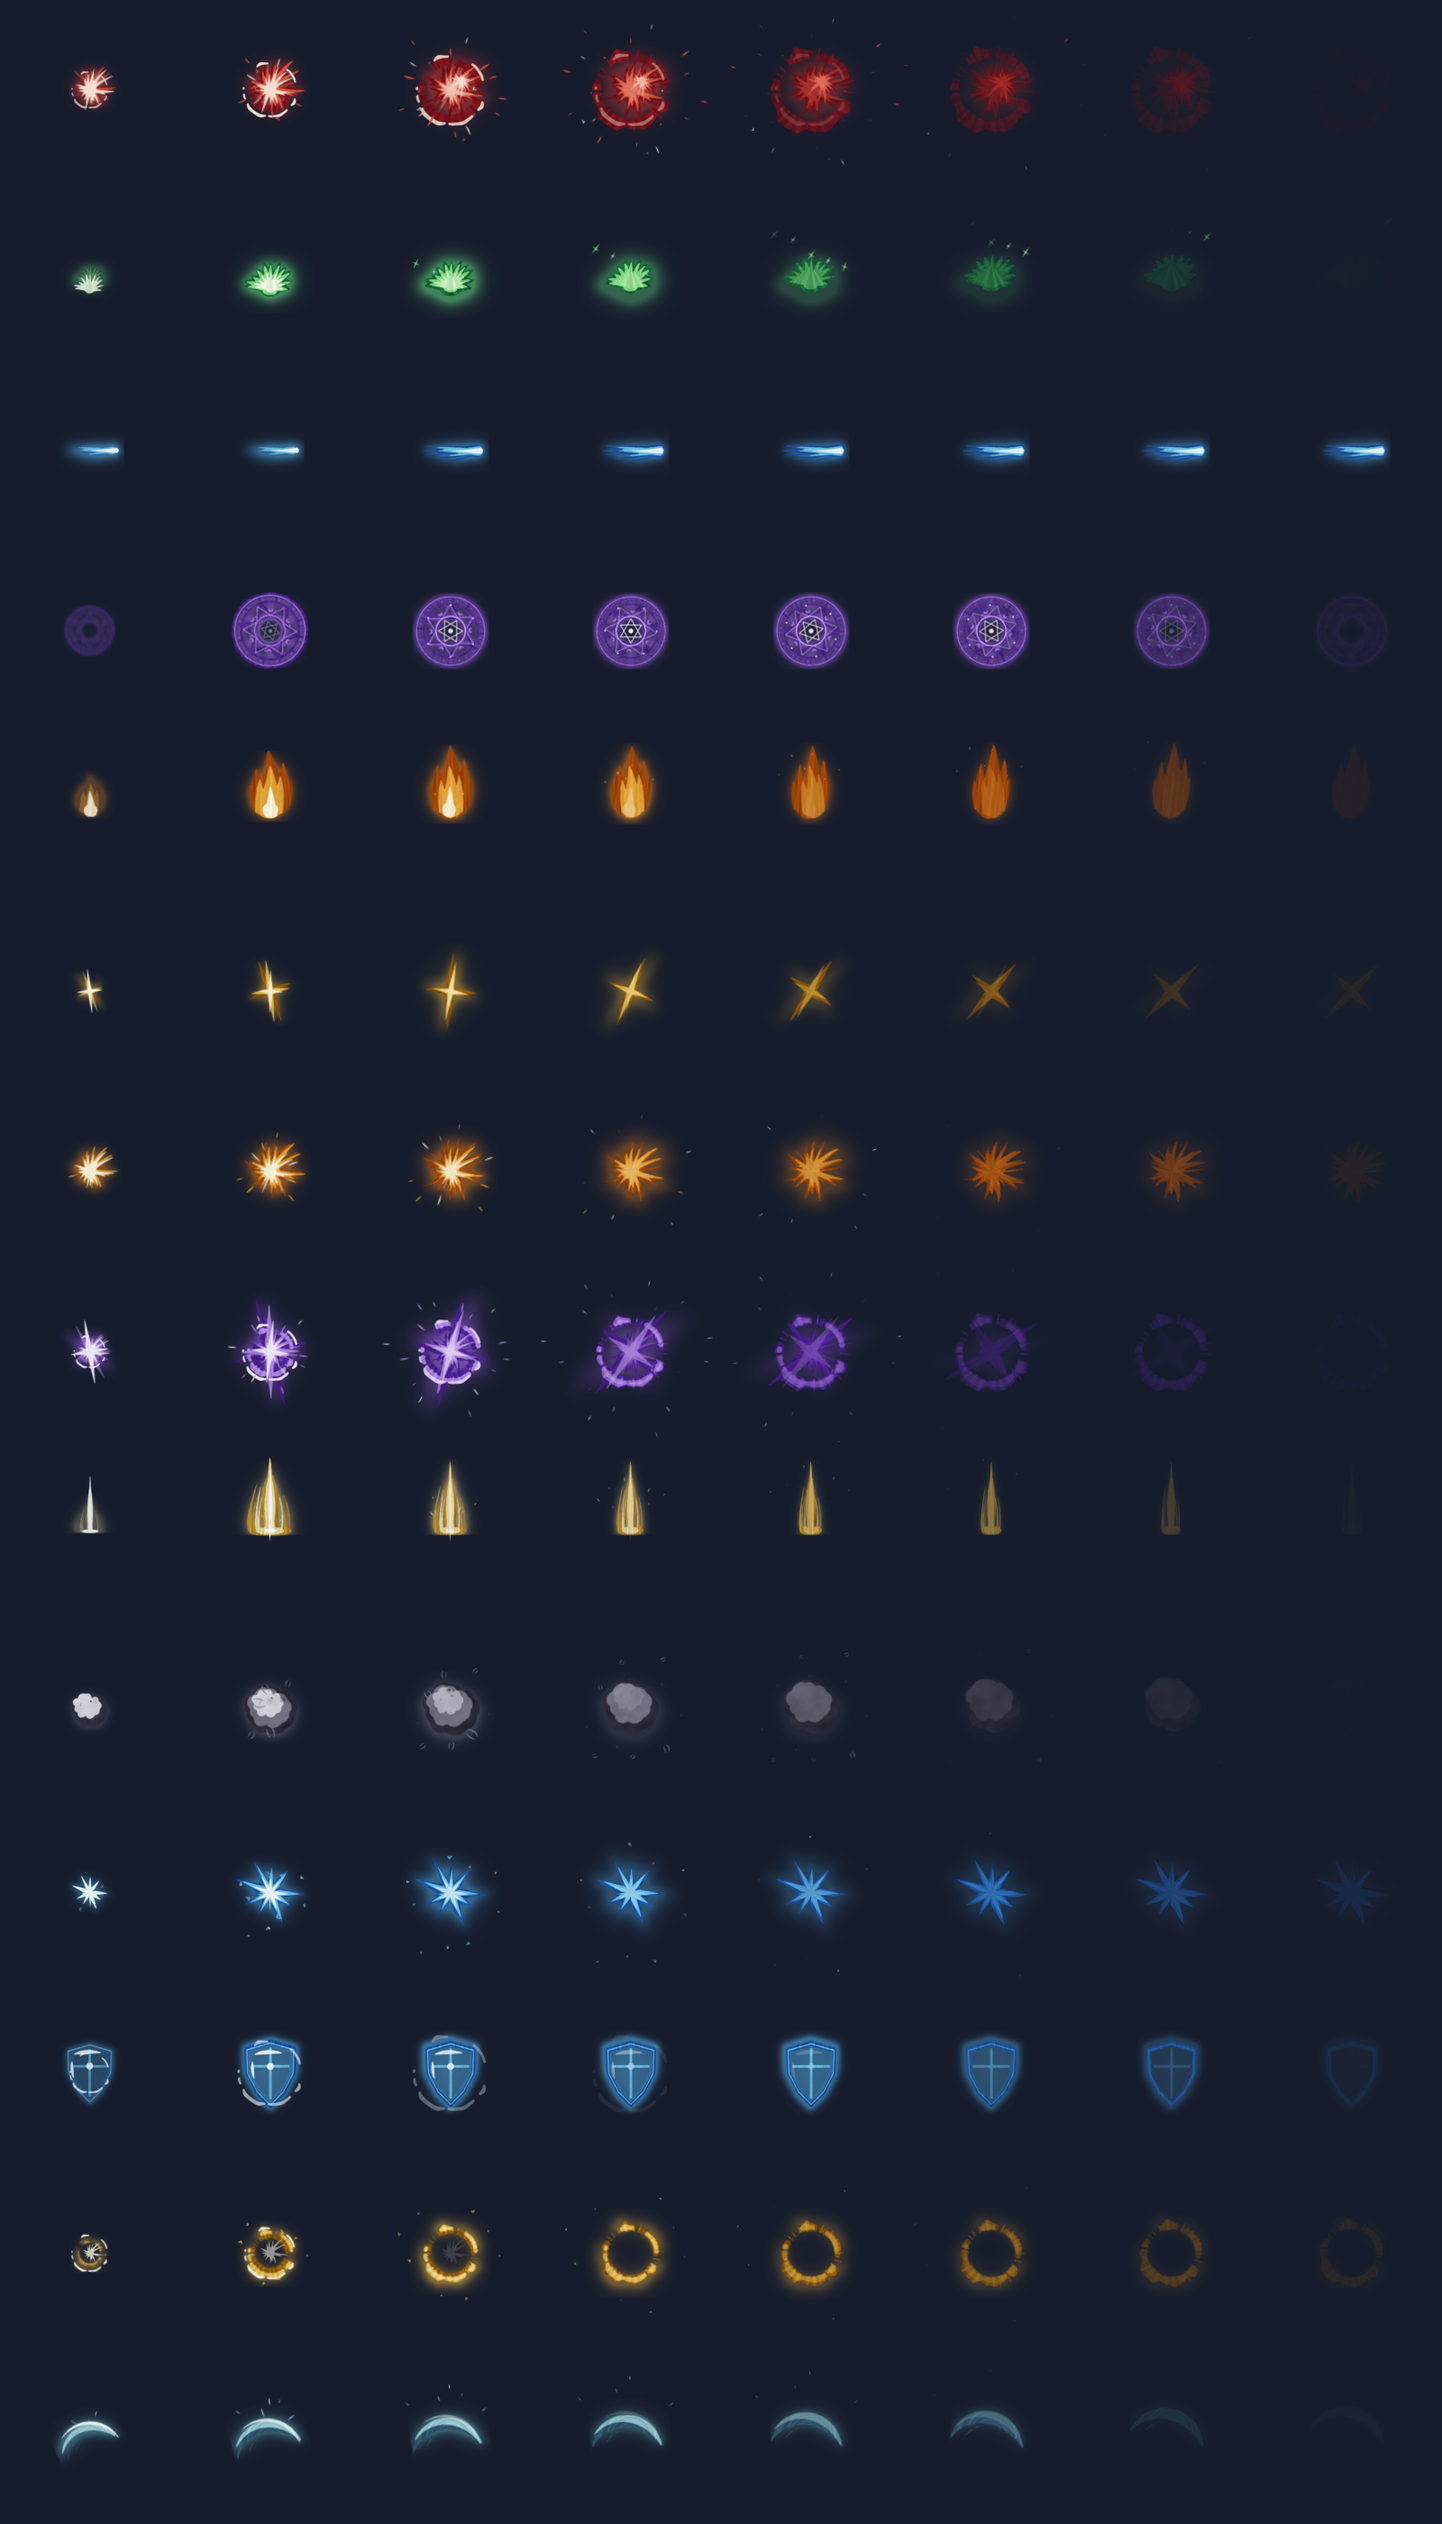
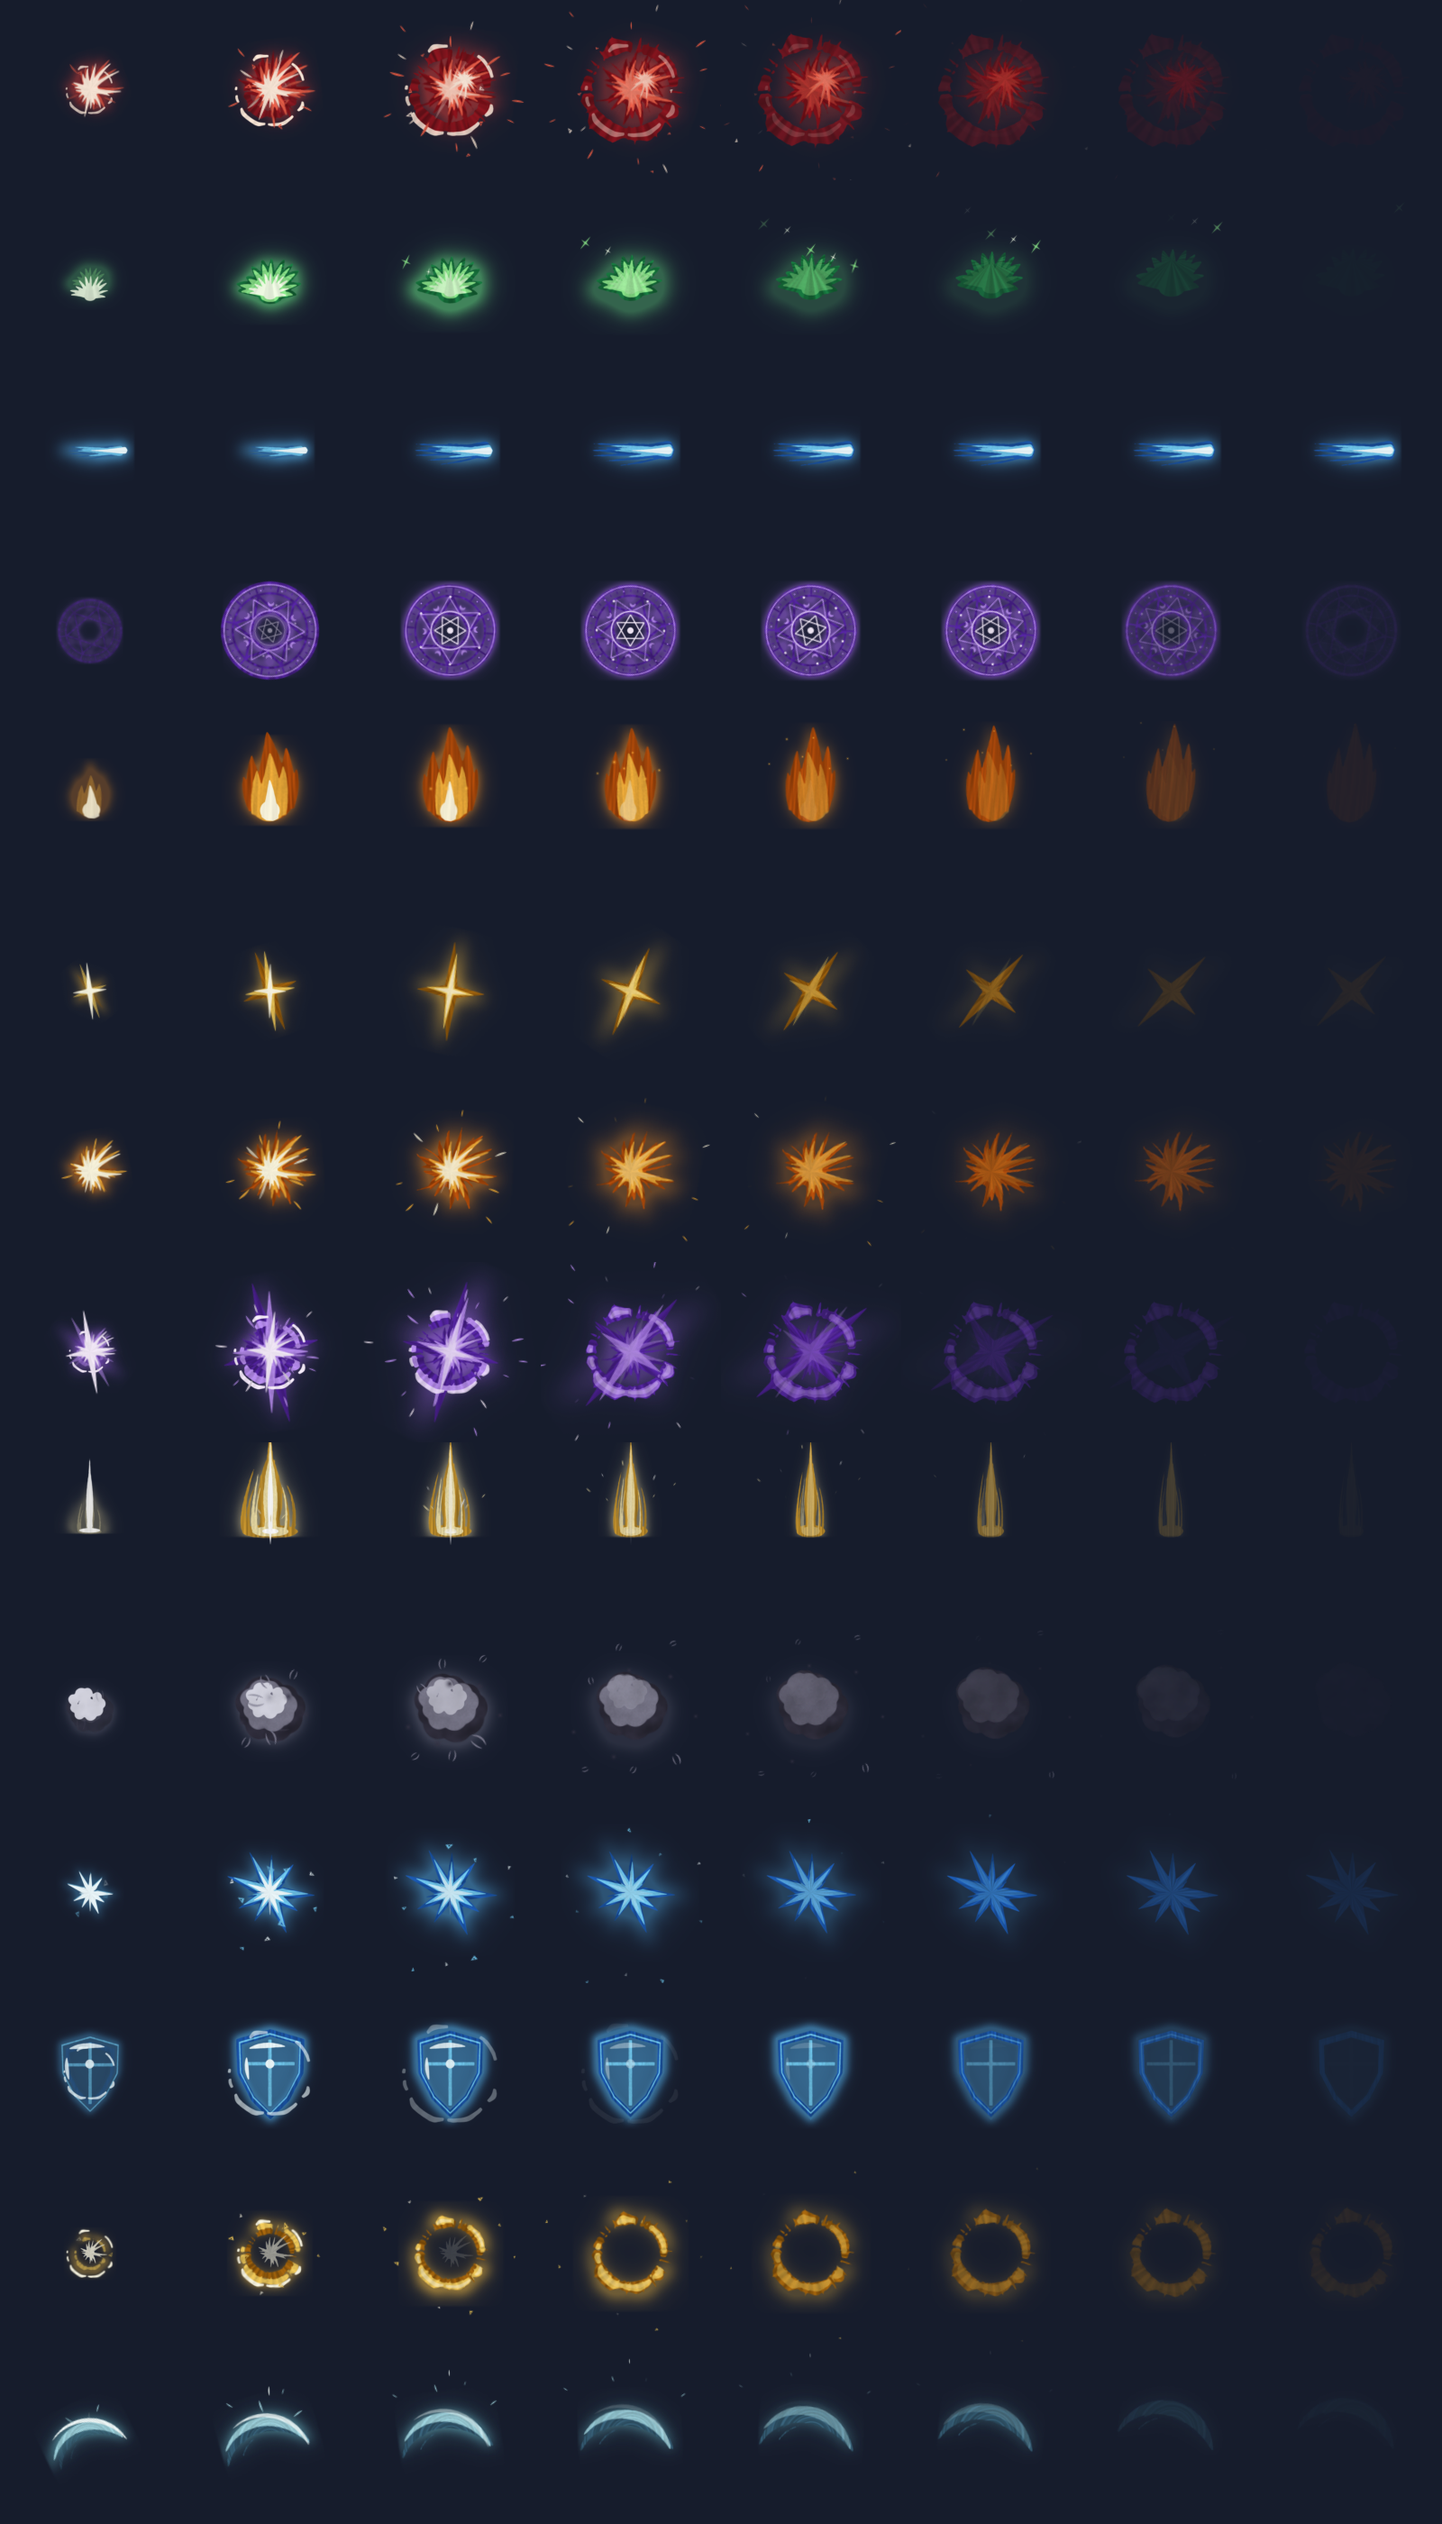
Layered effects: uploaded sheet ids, previews, README, CI step
Claude-Session: https://claude.ai/code/session_015X7gictzcTgipeEGLkgkzZ

diff --git a/vfx/README.md b/vfx/README.md
@@ -1,0 +1,58 @@
+# Layered effects (LayerFx)
+
+Every effect in the game is a picture drawn as **four layers** that sit on top of each other:
+
+| Layer | What it is | Colour in game |
+| --- | --- | --- |
+| glow | a soft bloom behind everything | the family colour, half see-through |
+| rim | the whole silhouette | dark and saturated |
+| middle | a smaller shape inside it | bright |
+| core | the hottest, smallest part | nearly white |
+
+The layers never move as one picture: the core snaps out first and dies first, the middle follows,
+the rim arrives last and lingers, the glow swells behind them, and loose bits of paint fly off on
+top. That offset is what makes a still drawing feel like a hit.
+
+![the sheets](preview.png)
+
+## Files
+- `draw_layers.py` draws the 13 sheets into `sheets/` (1024x1024, the four layers in the four
+  quarters: glow top-left, rim top-right, middle bottom-left, core bottom-right). They are white
+  with brush streaks, so the game tints them and one drawing works for every card family.
+  `python3 vfx/draw_layers.py` (needs `numpy` and `pillow`), or `python3 vfx/draw_layers.py slash`
+  for one sheet. It also writes `preview.png`.
+- `src/shared/LayerFx.luau` puts the layers together in Roblox: the recipes (which layers, when,
+  how big, how they turn and fade) and `LayerFx.play` / `LayerFx.screen`.
+- `src/shared/VfxAssets.luau` holds the uploaded image id of each sheet.
+- `render_preview.py` renders `effects_strip.png` and `effects.gif` from the real frames the game
+  code computes (see the top of that file). `studio_check.jpg` is the same effects in Roblox Studio.
+
+## The effects
+`hit`, `bigHit`, `slash`, `slam` (flat), `circle` (flat), `pillar`, `bolt`, `puff`, `bloom`,
+`shield`, `shards`, `flame`, `glint`, `nova`. Colours: `ember`, `gold`, `blood`, `frost`, `arcane`,
+`verdant`, `rust`, `steel`, `holy`, `smoke`, `rose` (each family and rarity has one).
+
+```lua
+local LayerFx = require(ReplicatedStorage.DeckWars.LayerFx)
+LayerFx.play("hit", position, { palette = "ember", size = 3 })
+LayerFx.play("slash", position, { palette = "steel", size = 3, aim = direction })
+LayerFx.play("bolt", from, { to = target, palette = "frost" })
+LayerFx.play("slam", groundPosition, { palette = "gold", size = 4 })            -- lies flat
+LayerFx.screen("nova", someFrame, UDim2.fromScale(0.5, 0.5), 300, { palette = "gold" })
+```
+
+Where the game plays them: summons (slam; a spell circle from Epic up; a pillar from Mythic up),
+attacks (slash, or a bolt from far away), damage (hit / bigHit in the attacker's colours), hero
+damage, heals and buffs (bloom), knock-outs (puff), spells (circle), Spark and Big Moves (nova,
+pillar), Frozen (shards), Bubble Wrap and blocks (shield), Boo (flame), the pack slash and the
+card reveals, and the hits, slams and explosions of Pack Brawl.
+
+## Changing or adding a picture
+1. Change `draw_layers.py` and run it.
+2. Upload the new sheet to Roblox: in Studio open **View > Asset Manager > Images**, press the
+   upload arrow and pick the file from `vfx/sheets/`. Right-click the uploaded image and choose
+   **Copy ID to clipboard**.
+3. Put the id in `src/shared/VfxAssets.luau` as `"rbxassetid://<the id>"`.
+4. A new effect is a new entry in `Recipes` in `LayerFx.luau`.
+
+A sheet without an id is simply not drawn: the game still plays, without that effect.
